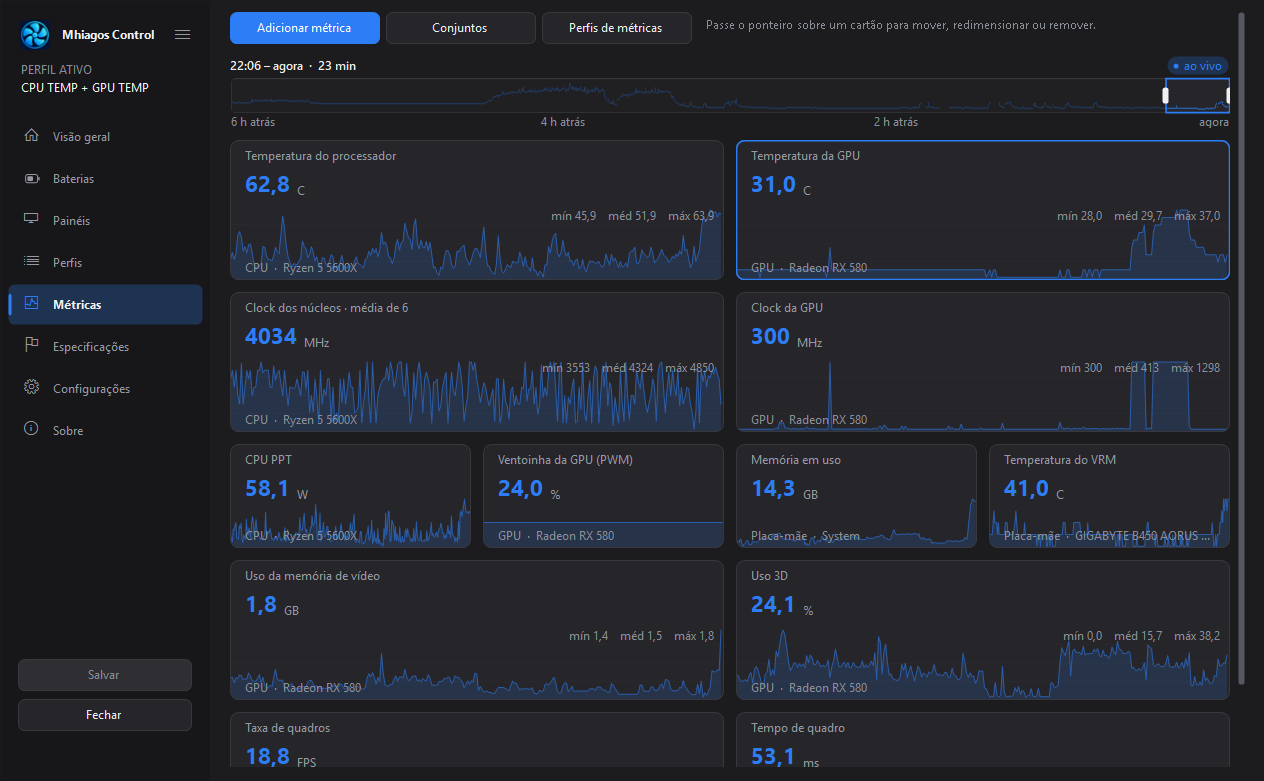
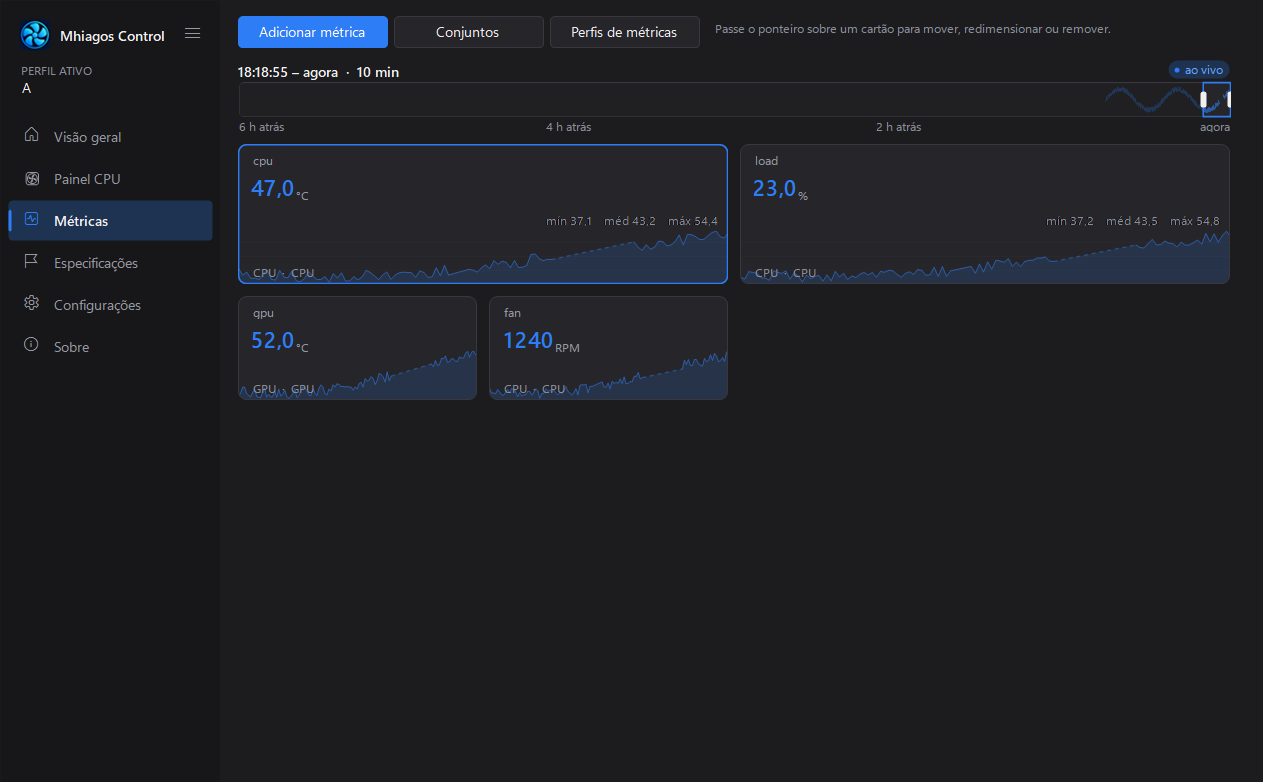
README da edicao enxuta: tabela de edicoes, novidades da 2.30.0 e capturas novas

diff --git a/tools/CapturaDeEscala.cs b/tools/CapturaDeEscala.cs
@@ -281,9 +281,10 @@ namespace MhiagosControl
                 NavBar nav = (NavBar)Field(form, "_nav");
                 if (tela) { CapturaDaTela(form, nav, pasta); form.Close(); return 0; }
                 if (pintura) { MedirPintura(form, nav); form.Close(); return 0; }
-                foreach (Size tamanho in tamanhos)
+                foreach (Size tamanho in (Environment.GetEnvironmentVariable("MHIAGOS_README") == "1" ? new Size[] { tamanhos[0] } : tamanhos))
                 {
-                    form.Size = tamanho;
+                    bool readme = Environment.GetEnvironmentVariable("MHIAGOS_README") == "1";
+                    if (readme) form.ClientSize = SettingsForm.TamanhoPadrao; else form.Size = tamanho;
                     for (int i = 0; i < nav.Items.Count; i++)
                     {
                         nav.SelectedIndex = i;
@@ -294,9 +295,34 @@ namespace MhiagosControl
                         using (Bitmap bmp = new Bitmap(form.Width, form.Height))
                         {
                             form.DrawToBitmap(bmp, new Rectangle(Point.Empty, bmp.Size));
-                            bmp.Save(Path.Combine(pasta, nome + ".png"), ImageFormat.Png);
+                            if (readme)
+                            {
+                                // So a area cliente, como o Windows 11 a mostra (o DrawToBitmap pinta a moldura classica)
+                                Point o = form.PointToScreen(Point.Empty); o.X -= form.Left; o.Y -= form.Top;
+                                using (Bitmap so = bmp.Clone(new Rectangle(o, form.ClientSize), bmp.PixelFormat))
+                                    so.Save(Path.Combine(pasta, nav.Items[i].Key + ".png"), ImageFormat.Png);
+                            }
+                            else bmp.Save(Path.Combine(pasta, nome + ".png"), ImageFormat.Png);
                         }
                     }
+                }
+                if (Environment.GetEnvironmentVariable("MHIAGOS_README") == "1")
+                {
+                    // a aba Perfis do Painel CPU (nao e item da barra)
+                    form.ClientSize = SettingsForm.TamanhoPadrao;
+                    InvokePrivate(form, "AbrirPaginaPelaChave", "perfis");
+                    InvokePrivate(form, "AtualizarPaginaAtiva", true);
+                    Application.DoEvents();
+                    using (Bitmap bmp = new Bitmap(form.Width, form.Height))
+                    {
+                        form.DrawToBitmap(bmp, new Rectangle(Point.Empty, bmp.Size));
+                        Point o = form.PointToScreen(Point.Empty); o.X -= form.Left; o.Y -= form.Top;
+                        using (Bitmap so = bmp.Clone(new Rectangle(o, form.ClientSize), bmp.PixelFormat))
+                            so.Save(Path.Combine(pasta, "perfis.png"), ImageFormat.Png);
+                    }
+                    form.Close();
+                    Console.WriteLine("capturas em " + pasta);
+                    return 0;
                 }
                 // Quadros das animacoes, conduzidos a mao: o painel Widget e o
                 // "Mais detalhes" a 0, 25, 50, 75 e 100% do tempo.

diff --git a/README.md b/README.md
@@ -18,6 +18,26 @@ retrato completo da máquina.
 > para o uso do próprio autor, está na branch `main` e nos releases sem o sufixo
 > `-cpu`.
 
+### Duas edições, o mesmo núcleo
+
+| | **Enxuta** (`v2.30.0-cpu`, branch `edicao-cpu`) | **Completa** (`v2.30.0`, branch `main`) |
+|---|---|---|
+| Mostrador do cooler, perfis, rodízio, perfil por jogo | sim | sim |
+| Painel CPU (Painéis e Perfis em abas) | sim | sim |
+| Métricas e histórico de seis horas | sim | sim |
+| Especificações do PC | sim | sim |
+| Casa (ar-condicionado e lava e seca pela ConnectLife) | não | sim |
+| Bateria dos periféricos (G325, X11, PRO X) e widget | não | sim |
+| Tamanho do instalador | cerca de 5,5 MB | cerca de 6 MB |
+
+### O que mudou na 2.30.0
+
+- **Painel CPU**: a página Painéis mudou de nome e ganhou **Perfis** como segunda aba.
+- A faixa de sistema da Visão geral não corta mais os rótulos em janela estreita.
+- A janela abre por cima dos outros programas quando o app é aberto pelo executável.
+- Abertura da página Casa mais rápida (na edição completa); páginas preparadas em segundo plano.
+- O código foi reorganizado em arquivos por assunto, sem mudar o comportamento.
+
 
 > A interface fala **português do Brasil e inglês**, escolhido pelo idioma do
 > Windows na primeira execução e trocável em *Configurações*.
@@ -64,15 +84,14 @@ algo sair diferente do esperado no seu aparelho.
 
 ## Telas
 
-A janela tem oito páginas na barra lateral e abre na **Visão geral**. A ordem é
+A janela tem seis páginas na barra lateral e abre na **Visão geral**. A ordem é
 sua: arraste um item para cima ou para baixo (ou use Ctrl+↑ e Ctrl+↓), e ela
 fica gravada.
 
 | Página | Responde |
 |---|---|
 | **Visão geral** | como a máquina está agora e o que o cooler está mostrando |
-| **Painéis** | qual sensor vai para cada mostrador, com escala, unidade e prévia |
-| **Perfis** | conjuntos salvos, rodízio, exportação e perfil por jogo |
+| **Painel CPU** | duas abas: **Painéis** (qual sensor vai para cada mostrador, com escala, unidade e prévia) e **Perfis** (conjuntos salvos, rodízio, exportação e perfil por jogo) |
 | **Métricas** | cartões com histórico, conjuntos prontos e perfis de grade salvos |
 | **Especificações** | o retrato completo da máquina, no espírito do CPU-Z |
 | **Configurações** | idioma, início automático, ociosidade, FPS, backup e diagnóstico |
@@ -85,12 +104,12 @@ monitor atual.
 
 | | |
 |:--:|:--:|
-| ![Painéis](docs/paineis.png) | ![Métricas](docs/metricas.png) |
+| ![Painel CPU](docs/paineis.png) | ![Métricas](docs/metricas.png) |
 | **Painel CPU**: o sensor, a escala e a unidade de cada mostrador, com prévia | **Métricas**: a grade de cartões arrastáveis, com o navegador de período no alto seguindo o cartão escolhido |
-| ![Especificações](docs/especificacoes.png) | ![Painéis](docs/paineis.png) |
-| **Especificações**: as peças em destaque, com a marca da placa de vídeo, os slots de memória no lugar e os discos em barras | **Painéis**: o sensor de cada mostrador, a escala e as unidades, com prévia ao vivo sobre a peça |
+| ![Especificações](docs/especificacoes.png) | ![Seletor de sensor](docs/seletor.png) |
+| **Especificações**: as peças em destaque, com a marca da placa de vídeo, os slots de memória no lugar e os discos em barras | **Seletor de sensor**: a lista agrupada por peça, com busca e a leitura ao vivo |
 | ![Perfis](docs/perfis.png) | ![Configurações](docs/configuracoes.png) |
-| **Perfis**: a lista com rodízio de um lado, a prévia e o perfil por jogo do outro | **Configurações**: uma linha por opção, com a descrição curta e o controle à direita |
+| **Painel CPU, aba Perfis**: a lista com rodízio de um lado, a prévia e o perfil por jogo do outro | **Configurações**: uma linha por opção, com a descrição curta e o controle à direita |
 
 > As capturas saem do aplicativo, com as leituras que ele gravou na máquina do
 > autor (um Ryzen 5 5600X com uma Radeon RX 580). O caminho da pasta de dados
